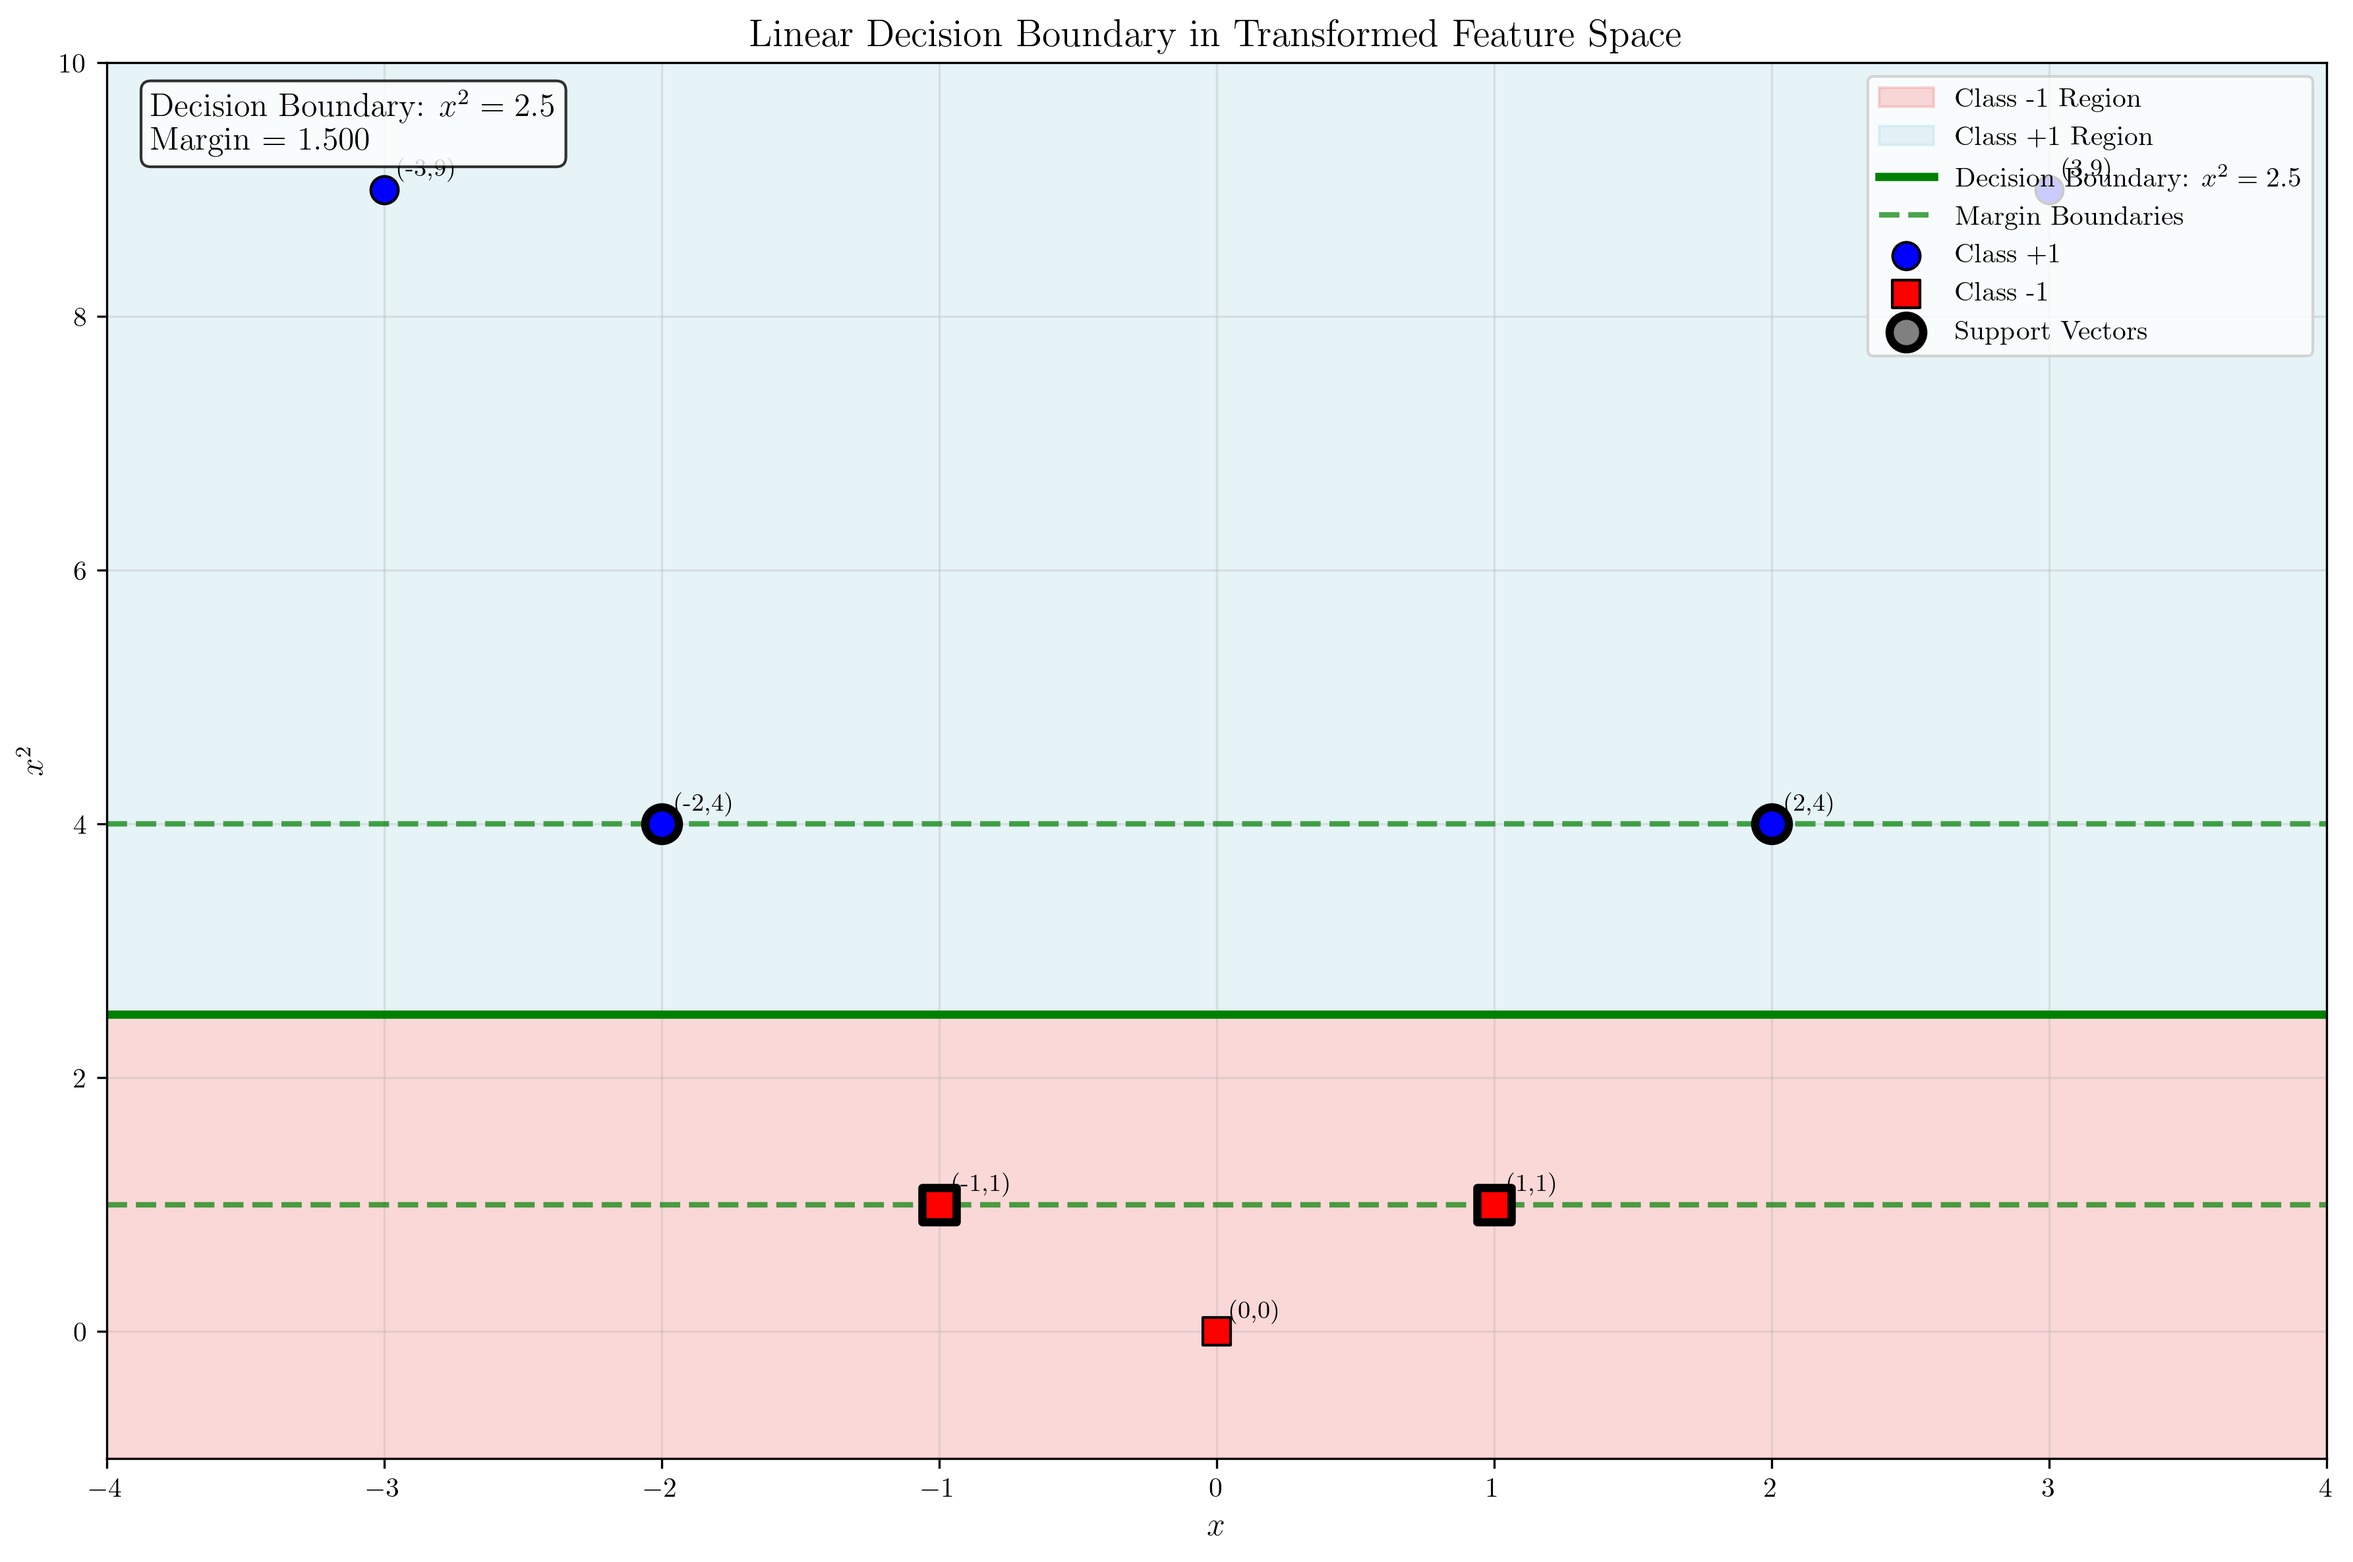
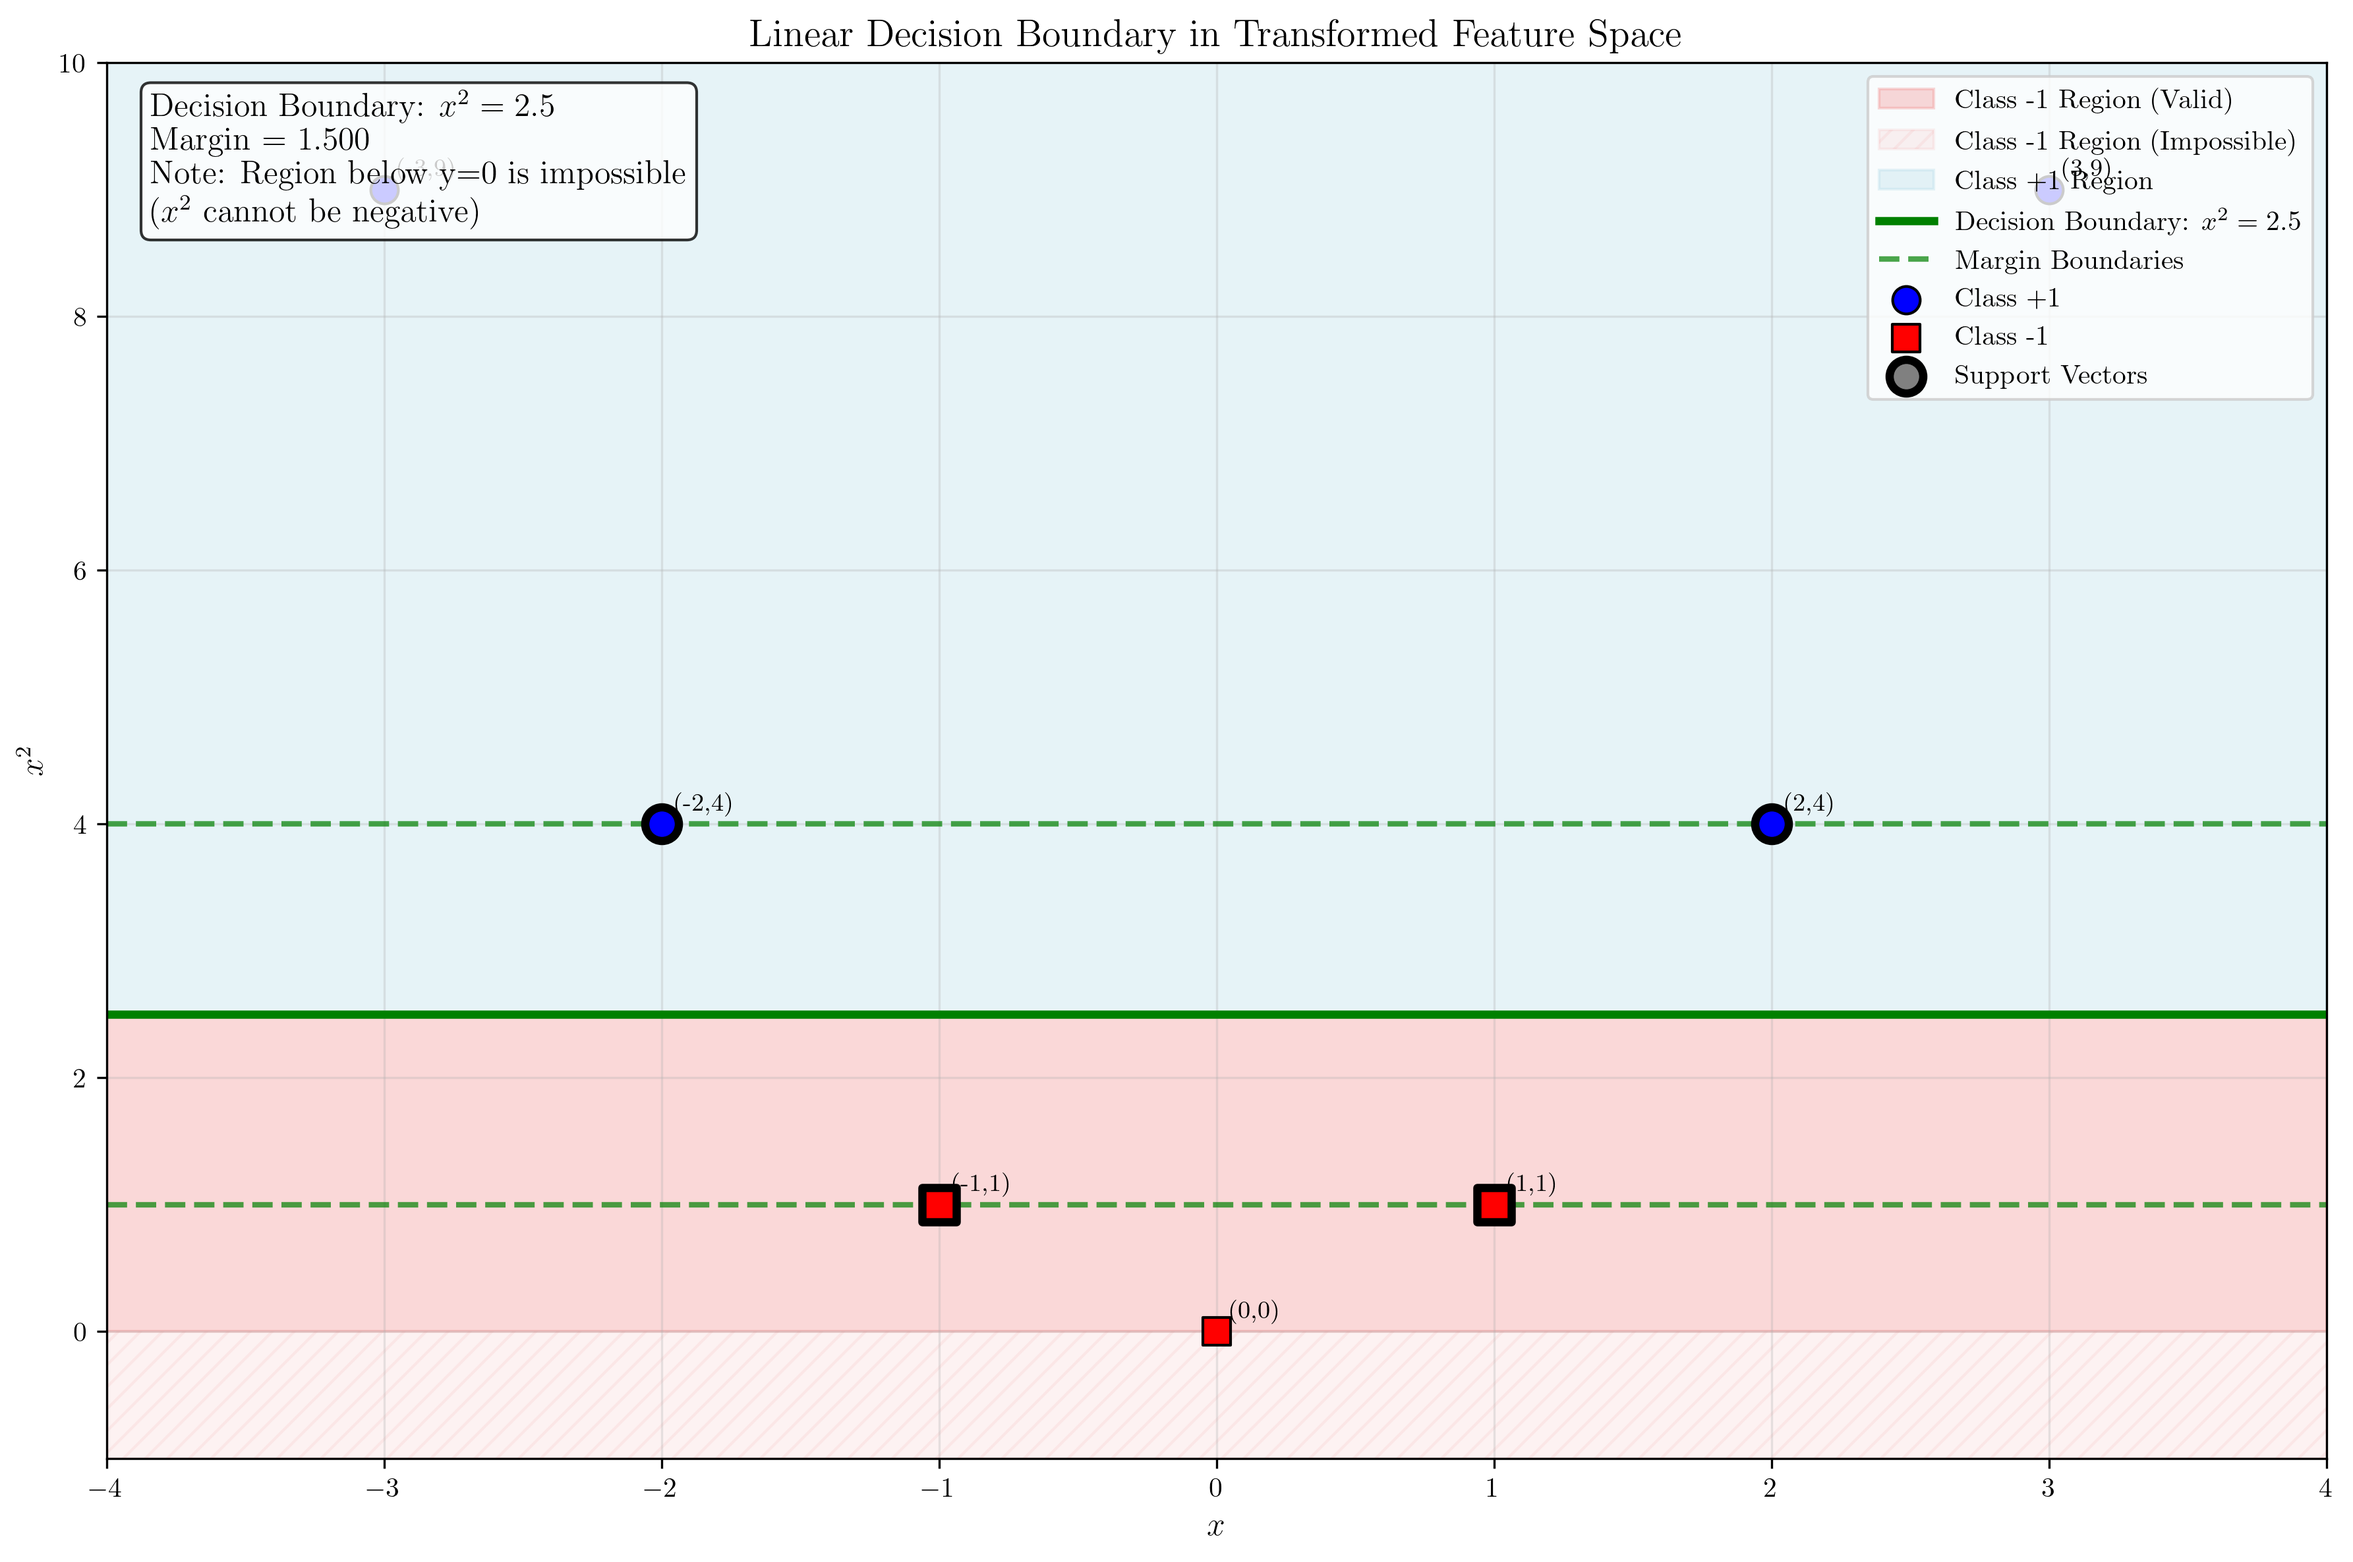
fix

diff --git a/ML_Obsidian_Vault/Lectures/5/Codes/L5_3_39_solution.py b/ML_Obsidian_Vault/Lectures/5/Codes/L5_3_39_solution.py
@@ -455,8 +455,10 @@ plt.ylim(-1, 10)
 plt.grid(True, alpha=0.3)
 
 # Color the regions using plt.fill for better control
-# Class -1 region: from y=-1 to y=2.5 (below decision boundary, including negative y values)
-plt.fill([-4, 4, 4, -4], [-1, -1, 2.5, 2.5], color='lightcoral', alpha=0.3, label='Class -1 Region')
+# Class -1 region: from y=0 to y=2.5 (below decision boundary) - this region exists
+plt.fill([-4, 4, 4, -4], [0, 0, 2.5, 2.5], color='lightcoral', alpha=0.3, label='Class -1 Region (Valid)')
+# Impossible region: from y=-1 to y=0 (where x² < 0) - this region cannot exist
+plt.fill([-4, 4, 4, -4], [-1, -1, 0, 0], color='lightcoral', alpha=0.1, hatch='///', label='Class -1 Region (Impossible)')
 # Class +1 region: from y=2.5 to y=10 (above decision boundary)
 plt.fill([-4, 4, 4, -4], [2.5, 2.5, 10, 10], color='lightblue', alpha=0.3, label='Class +1 Region')
 
@@ -487,7 +489,7 @@ for i, (x_val, label) in enumerate(data):
                 textcoords='offset points', fontsize=9, zorder=6)
 
 # Add text annotations
-plt.text(0.02, 0.98, f'Decision Boundary: $x^2 = 2.5$\nMargin = 1.500', 
+plt.text(0.02, 0.98, f'Decision Boundary: $x^2 = 2.5$\nMargin = 1.500\nNote: Region below y=0 is impossible\n($x^2$ cannot be negative)', 
          transform=plt.gca().transAxes, fontsize=12, verticalalignment='top',
          bbox=dict(boxstyle='round', facecolor='white', alpha=0.8), zorder=7)
 

diff --git a/ML_Obsidian_Vault/Lectures/5/Quiz/L5_3_39_explanation.md b/ML_Obsidian_Vault/Lectures/5/Quiz/L5_3_39_explanation.md
@@ -359,7 +359,9 @@ This dedicated visualization of the transformed feature space shows:
 - **Mathematical annotations**: Clear display of decision boundary equation and margin value
 - **Perfect separation**: All 7 points correctly classified with optimal margin of 1.5 units
 - **Proper region coloring**: Class -1 region (red) extends from $x^2 = 0$ to $x^2 = 2.5$, Class +1 region (blue) extends from $x^2 = 2.5$ to $x^2 = 10$
-- **Complete bottom coloring**: The entire bottom region below the decision boundary (including negative y values from y=-1 to y=2.5) is now properly colored red
+- **Complete bottom coloring**: The entire bottom region below the decision boundary is now properly colored red using plt.fill method
+- **Impossible region handling**: The region below y=0 (where x² < 0) is colored with a lighter shade and hatched pattern to indicate it's mathematically impossible
+- **Mathematical clarity**: Clear annotation explaining that x² cannot be negative, making the region below y=0 impossible
 
 ## Key Insights
 
